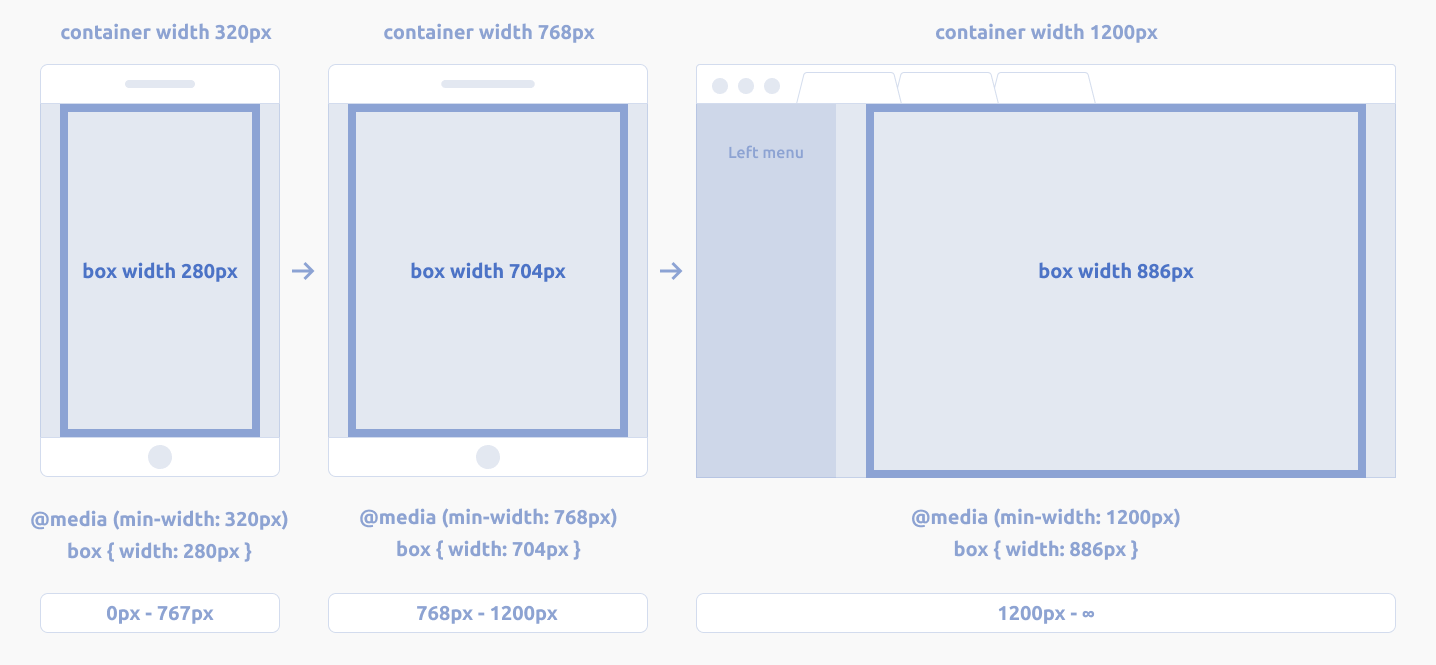
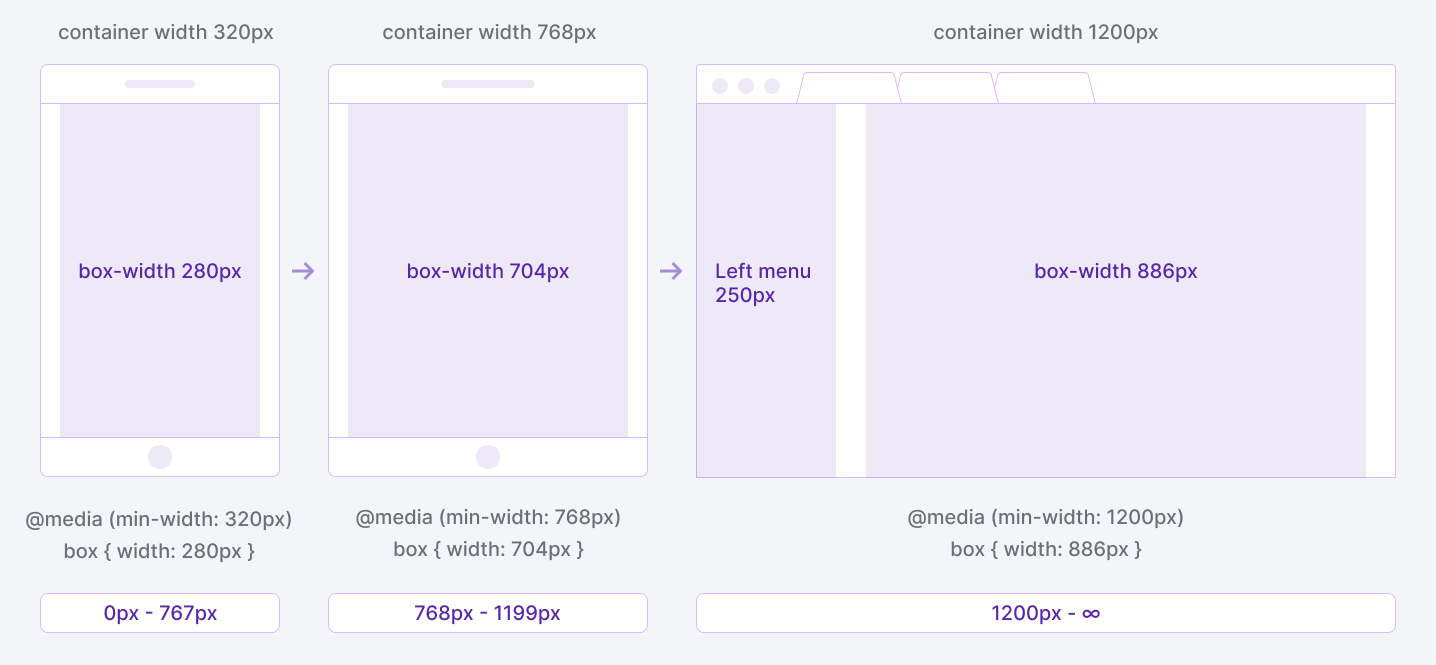
[Breakpoints, Grid system] Update guides and illustrations

diff --git a/website/docs/layout/grid-system/grid-system.md b/website/docs/layout/grid-system/grid-system.md
@@ -14,19 +14,25 @@ tabName: Guide
 
 ![breakpoints-scheme](static/scheme.png)
 
-| Breakpoint                      | Columns | Gutter | Max. content width                                                               | Content wrapper margins | Layout scheme                                             | Description                                                                                                               |
-| ------------------------------- | ------- | ------ | -------------------------------------------------------------------------------- | ----------------------- | --------------------------------------------------------- | ------------------------------------------------------------------------------------------------------------------------- |
-| **min-width: 320px** (320-767)  | 4       | 24px   | We recommend setting it to 500px. But you can choose another value if necessary. | `margin: 80px 20px;`    | ![320 breakpoint](static/breakpoints-320.png)             | **Mobile & tablet devices**. The content has a one-column structure. The left menu is hidden.                             |
-| **min-width: 768px** (768-1199) | 6       | 24px   | We recommend setting it to 720px. But you can choose another value if necessary. | `margin: 120px 32px;`   | ![768 breakpoint](static/breakpoints-768.png)             | **Mobile & tablet devices**. You can arrange the content as a two-column structure. The left menu is hidden.              |
-|                                 |         |        |                                                                                  |                         | ![768 breakpoint](static/breakpoints-768-landscape.png)   | **Mobile & tablet devices (landscape mode)**. The content is arranged as a two-column structure. The left menu is hidden. |
-| **min-width: 1200px** (1200-∞)  | 12      | 24px   | 840px for product landing pages. **956px for product pages.**                    | `margin; 0 auto;`       | ![1200px breakpoint](static/breakpoints-1200.png)         | **Tablet & desktop devices**. The left menu is open. You can rearrange the content as a three-column structure.           |
-|                                 |         |        |                                                                                  |                         | ![1200 breakpoint](static/breakpoints-1200-landscape.png) | **Tablet (landscape mode)**. The left menu is open. You can rearrange the content as a three-column structure.            |
+@## Breakpoints system
+
+| Breakpoint                      | Columns | Gutter | Max. content width                                                                                                                             | Content wrapper margins | Layout scheme                                                    | Description                                                                                                               |
+| ------------------------------- | ------- | ------ | ---------------------------------------------------------------------------------------------------------------------------------------------- | ----------------------- | ---------------------------------------------------------------- | ------------------------------------------------------------------------------------------------------------------------- |
+| **min-width: 320px** (320-767)  | 4       | 24px   | We recommend setting it to 500px. But you can choose another value if necessary.                                                               | `margin: 80px 20px;`    | ![320 breakpoint](static/breakpoints-320-mobile.png)             | **Mobile & tablet devices**. The content has a one-column structure. The left menu is hidden.                             |
+| **min-width: 768px** (768-1199) | 6       | 24px   | We recommend setting it to 720px. But you can choose another value if necessary.                                                               | `margin: 120px 32px;`   | ![768 breakpoint](static/breakpoints-768-tablet.png)             | **Mobile & tablet devices**. You can arrange the content as a two-column structure. The left menu is hidden.              |
+|                                 |         |        |                                                                                                                                                |                         | ![768 breakpoint](static/breakpoints-768-mobile-landscape.png)   | **Mobile & tablet devices (landscape mode)**. The content is arranged as a two-column structure. The left menu is hidden. |
+|                                 |         |        |                                                                                                                                                |                         | ![1199 breakpoint](static/breakpoints-1199-desktop.png)          | **Desktop devices**. The content is arranged as a three-column structure. The left menu is hidden.                        |
+| **min-width: 1200px** (1200-∞)  | 12      | 24px   | We recommend setting it to 980px for product landing pages and to **1200px for product pages.** But you can choose another value if necessary. | `margin; 0 auto;`       | ![1200px breakpoint](static/breakpoints-1200-desktop.png)        | **Tablet & desktop devices**. The left menu is open. You can rearrange the content as a three-column structure.           |
+|                                 |         |        |                                                                                                                                                |                         | ![1200 breakpoint](static/breakpoints-1200-tablet-landscape.png) | **Tablet (landscape mode)**. The left menu is open. You can rearrange the content as a three-column structure.            |
 
 @## Product pages width
 
 The grid system is based on the left menu width (250px) and the maximum content width of our product pages.
 
-> The maximum width of the content area on the product landing pages is 840px. If your product visually differs from the core Semrush products, then, of course, your maximum width may differ.
+**The recommended maximum width of the content area:**
+
+- for the product landing pages is 980px;
+- for the product pages is 1200px.
 
 @page grid-api
 @page grid-code

diff --git a/website/docs/layout/breakpoints/breakpoints.md b/website/docs/layout/breakpoints/breakpoints.md
@@ -6,7 +6,7 @@ tabName: Guide
 
 @## Adaptivity
 
-Most of our products are designed to work with data on the desktop, so adaptability is not yet required for all tools.
+Most of our products are designed to work with data on the desktop, so adaptivity is not yet required for all tools.
 
 > Most of the core components can be used on the adaptive interface. You need to increase their size to the biggest (XL) for ease of use on touch devices. You can see the examples in the [Code tab](/layout/breakpoints/breakpoints-code/).
 
@@ -45,9 +45,11 @@ module.exports = {
 
 A list of the main breakpoints that we recommend to use in our product interfaces:
 
-- `320px` for mobile devices
-- `768px` for tablet devices
-- `1200px` for desktop devices
+| Variable               | Usage                                                |
+| ---------------------- | ---------------------------------------------------- |
+| `--xs-screen: 320px;`  | The smallest possible breakpoint for mobile devices. |
+| `--sm-screen: 768px;`  | The most common breakpoint for tablet devices.       |
+| `--md-screen: 1200px;` | Our main breakpoint for desktop devices.             |
 
 For more information about grid and page layouts see [Grid system](/layout/grid-system/).
 

diff --git a/website/docs/internal/_get-started.md b/website/docs/internal/_get-started.md
@@ -20,7 +20,7 @@ Our interfaces are desktop first, so adaptability is still optional.
 
 Most of the core components are adaptive. They increase their size for ease of use on touch-appliances. Complex components can change their behaviors and appearance on small screens.
 
-**Component adaptability is enabled for screens smaller than 768px**.
+**Component adaptivity is enabled for screens smaller than 768px**.
 
 Use also [Grid](/layout/grid-system/) to build the page grid. The component has an adaptive API.
 The adaptivity (css with media-queries) of components can be enabled by adding our [babel-plugin-react-semcore plugin](https://github.com/semrush/intergalactic/blob/master/tools/babel-plugin-react-semcore/README.md) for babel.

diff --git a/website/docs/get-started-guide/dis-starter-guide/dis-starter-guide.md b/website/docs/get-started-guide/dis-starter-guide/dis-starter-guide.md
@@ -73,7 +73,7 @@ Go to [Grid system](/layout/grid-system) for a detailed description of this comp
 
 @## Breakpoints and grids
 
-> **TL;DR or main thoughts**: most of our products are designed to work with data on the desktop, since there is a lot of data visualization and explaining messages. So adaptability is not yet required for all tools.
+> **TL;DR or main thoughts**: most of our products are designed to work with data on the desktop, since there is a lot of data visualization and explaining messages. So adaptivity is not yet required for all tools.
 
 The main breakpoints that we recommend to use in our interfaces are:
 
